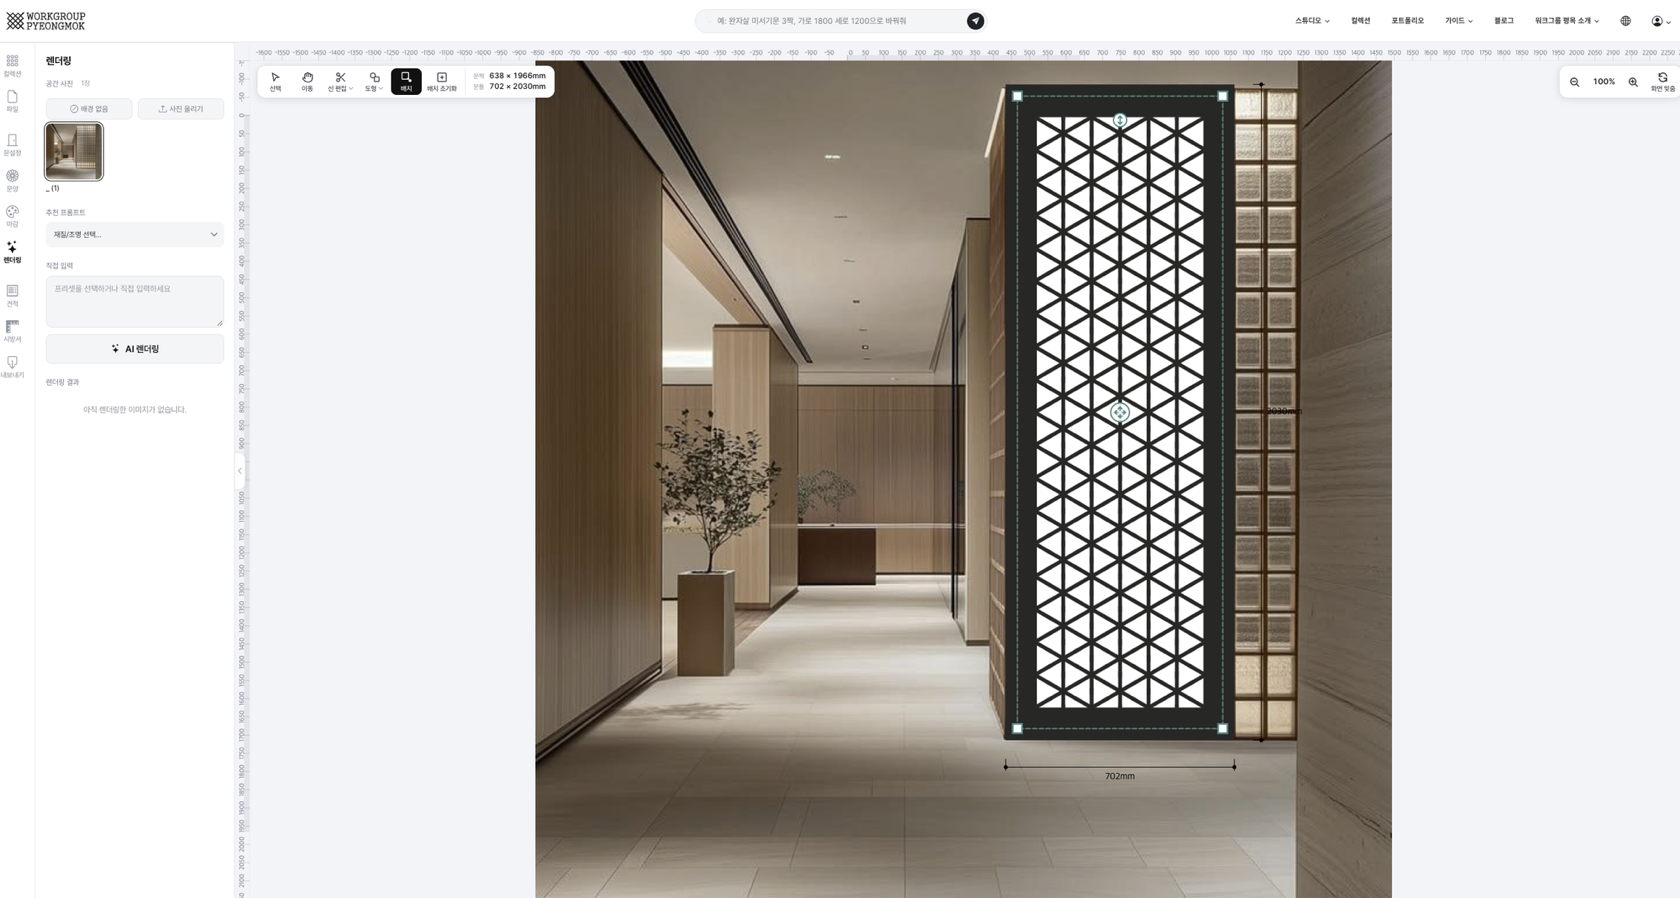
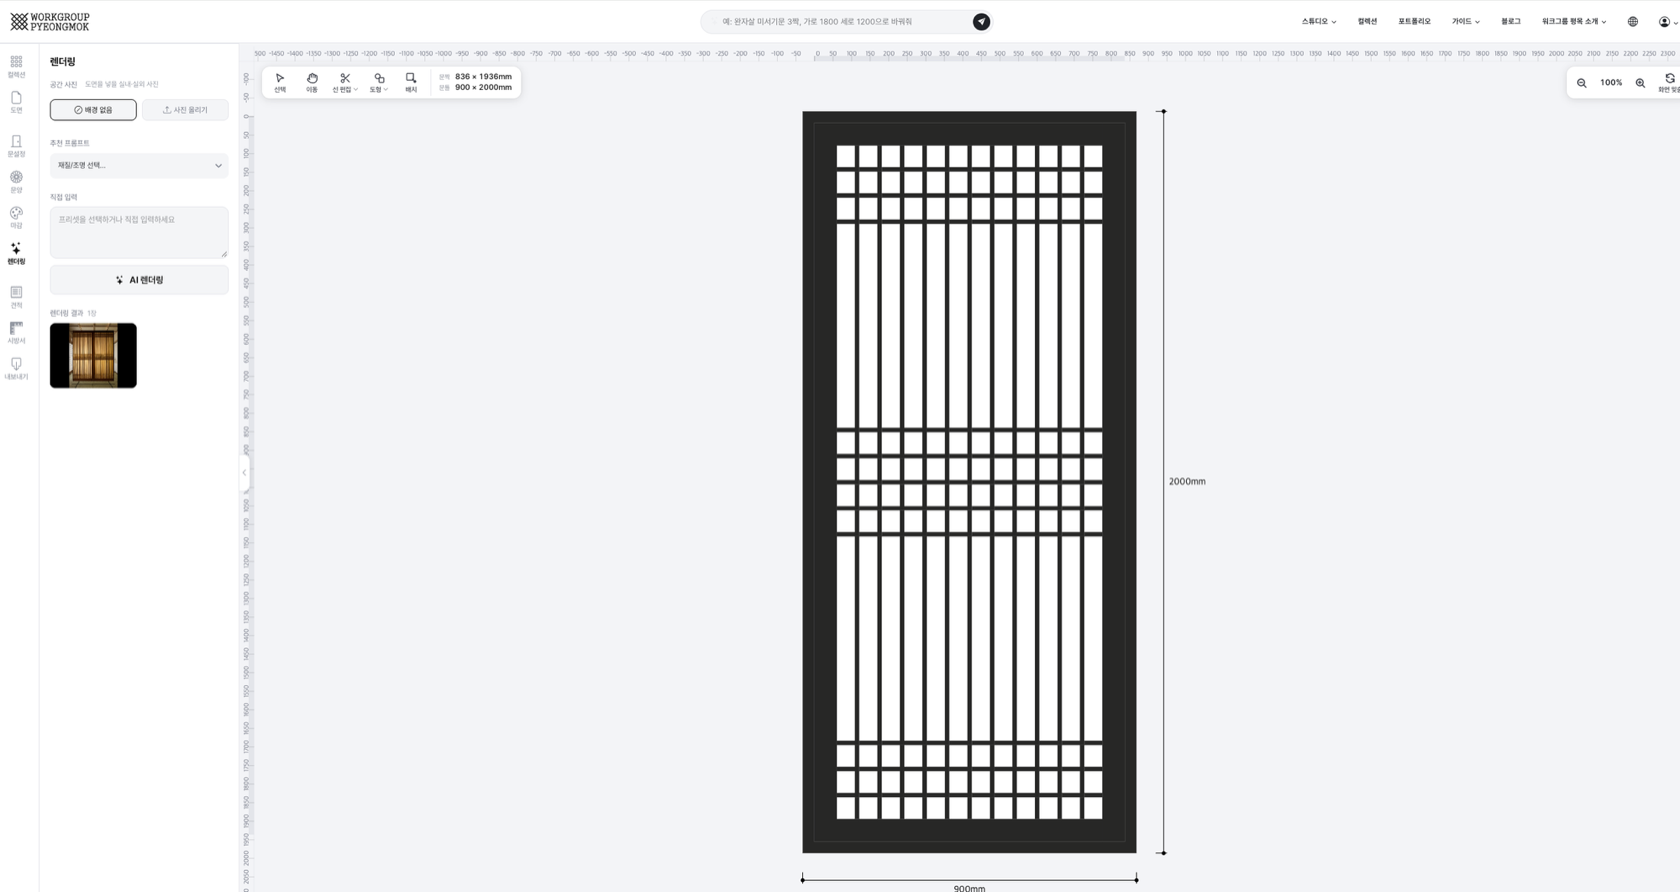
렌더링 가이드 한글 이미지를 운영 반영 후 화면('도면' 탭·렌더링 결과 표시)으로 재교체, 이미지 설명 수정

diff --git a/src/guide/render.php b/src/guide/render.php
@@ -45,7 +45,7 @@ include __DIR__ . '/_head.php';
 
 <!-- UI 스크린샷 -->
 <div class="guide-screenshot">
-    <img src="/src/img/guide/render.png" alt="세모솟을살 스튜디오에서 렌더링 탭을 연 화면 — 패널의 공간 사진·추천 프롬프트·직접 입력·AI 렌더링 버튼·렌더링 결과, 캔버스에는 공간 사진 위에 배치 모드로 맞춰 넣은 도면" loading="lazy">
+    <img src="/src/img/guide/render.png" alt="세살 스튜디오에서 렌더링 탭을 연 화면 — 패널의 공간 사진(배경 없음·사진 올리기)·추천 프롬프트·직접 입력·AI 렌더링 버튼·렌더링 결과 썸네일, 캔버스에는 도면" loading="lazy">
 </div>
 
 <div class="guide-callout-grid">
